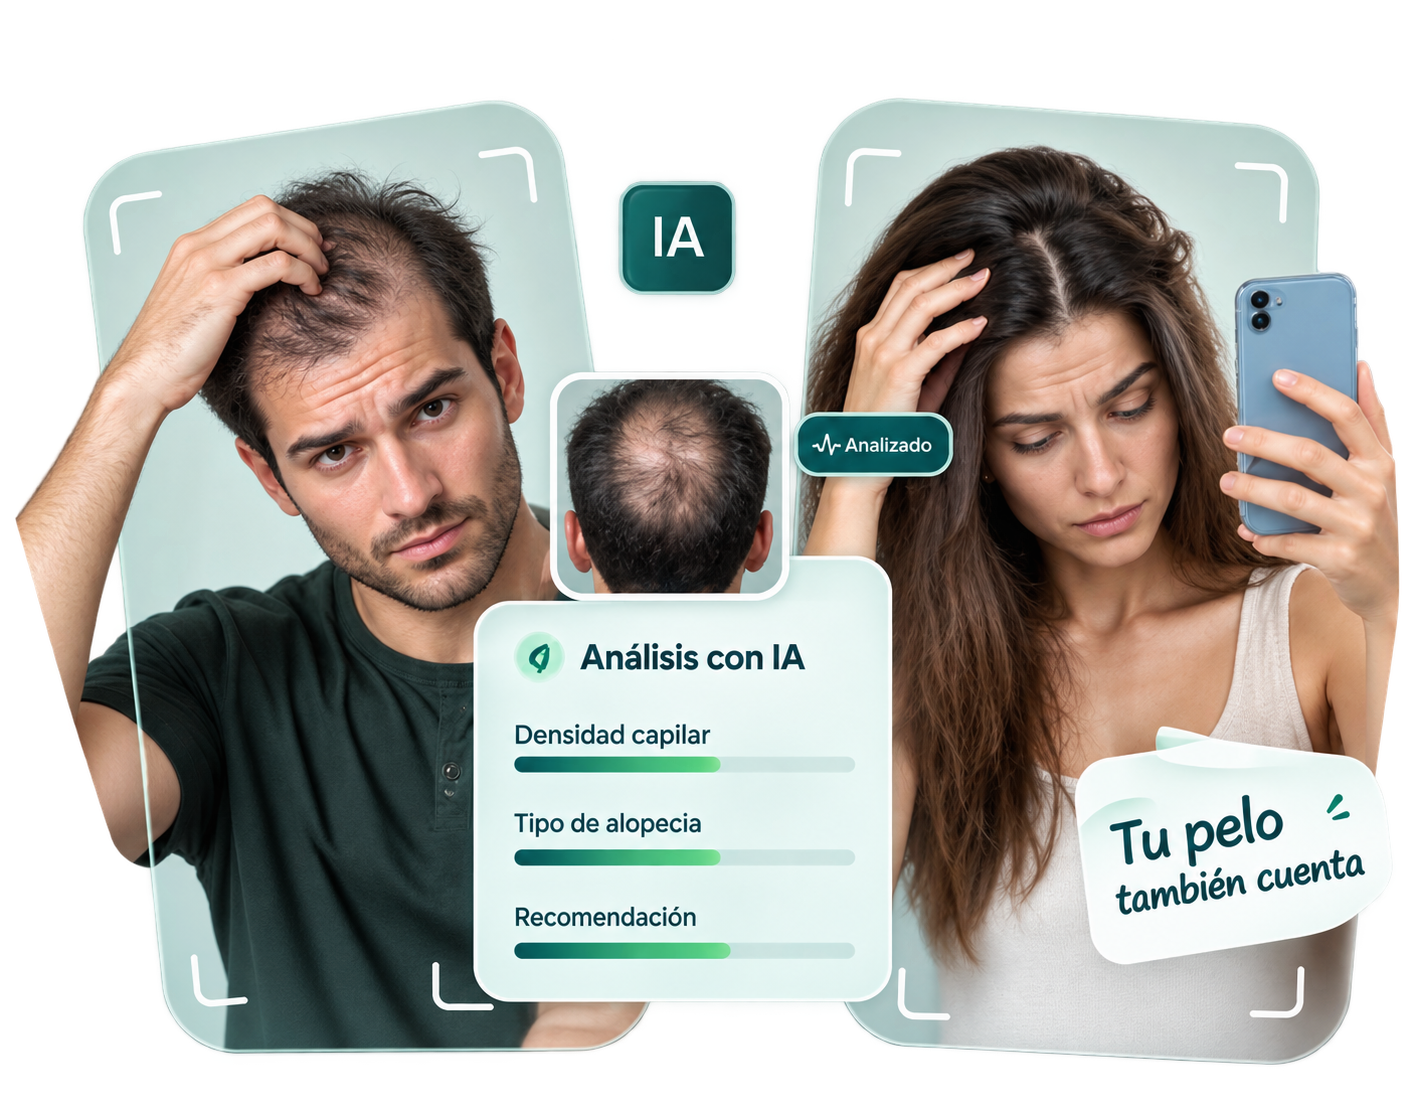
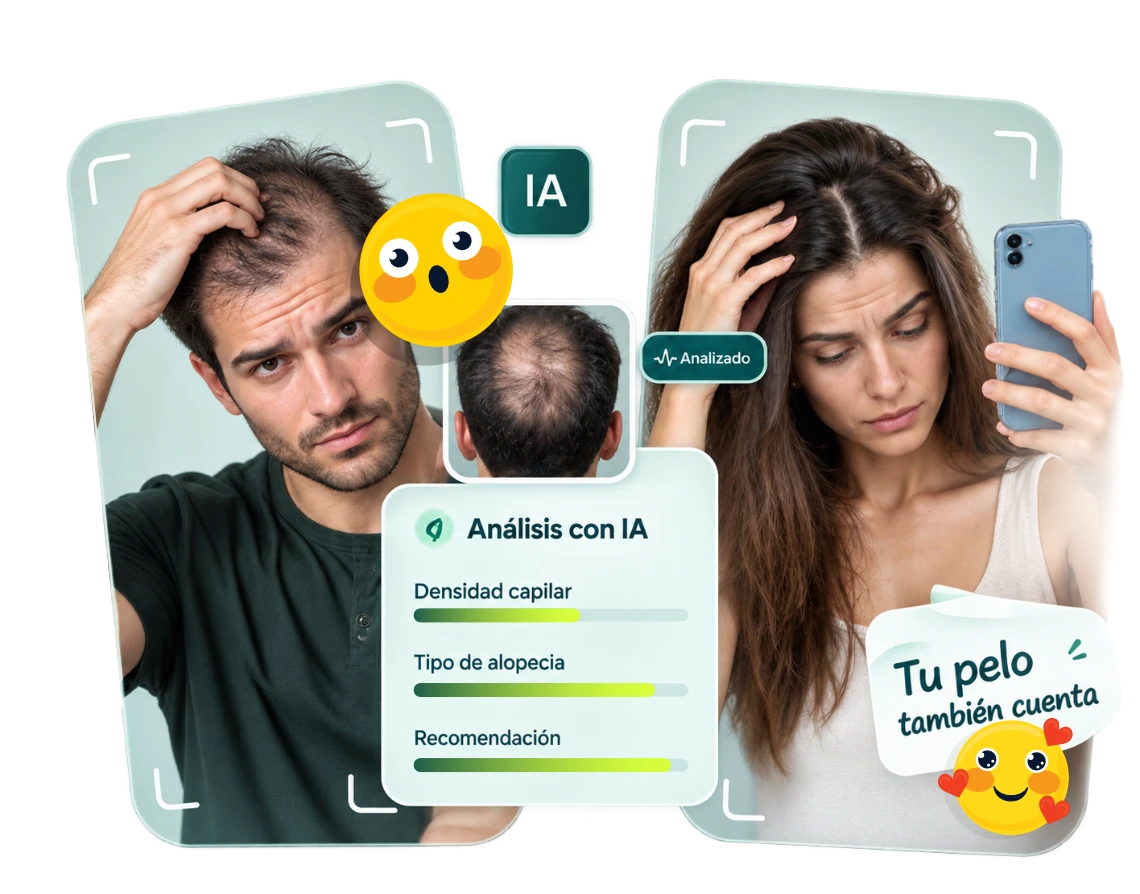
Home: fondo de página completo, foto del hero corregida y ajustes de cabecera (#34)
- Sustituye la foto y la textura de fondo del hero por las versiones
  finales de Santy (sin marca de agua, con los stickers de emoji).
- El fondo con hojas pasa a cubrir toda la home (fixed, detrás de
  todas las secciones) en vez de limitarse al hero — el hero y
  "Clínicas destacadas" ahora son cajas blancas flotando sobre ese
  fondo, como el resto de módulos irán a partir de ahora.
- "Hair we go!" junto al logo pasa de Birthstone (script) a Bricolage
  Grotesque, y se retira la dependencia de Birthstone al quedar sin uso.
- Se añaden las variantes del logo en verde sólido y blanco sólido
  para negativizar en fondos oscuros, listas para cuando hagan falta.

Claude-Session: https://claude.ai/code/session_01LDJe486sczaNLbqym9Vq58

diff --git a/src/components/home/hero.tsx b/src/components/home/hero.tsx
@@ -10,16 +10,8 @@ const BADGES = [
 
 export function Hero() {
   return (
-    <section className="relative overflow-hidden bg-gradient-to-b from-sage/25 via-sage/10 to-white">
-      <Image
-        src="/brand/textura-hojas.png"
-        alt=""
-        fill
-        priority
-        sizes="100vw"
-        className="pointer-events-none object-cover opacity-70"
-      />
-      <div className="relative mx-auto grid max-w-[1600px] items-center gap-10 px-6 py-12 lg:grid-cols-[0.85fr_1.15fr] lg:gap-6 lg:py-16">
+    <section className="mx-auto max-w-[1600px] px-6 pt-6 sm:pt-8">
+      <div className="grid items-center gap-10 rounded-3xl bg-white p-6 shadow-sm sm:p-10 lg:grid-cols-[0.85fr_1.15fr] lg:gap-6">
         <div className="text-left">
           <p className="text-xs font-bold uppercase tracking-widest text-teal">
             Tu pelo en buenas manos
@@ -55,7 +47,7 @@ export function Hero() {
           </div>
         </div>
 
-        <div className="relative mx-auto aspect-[1416/1111] w-full max-w-2xl">
+        <div className="relative mx-auto aspect-[1140/894] w-full max-w-2xl">
           <Image
             src="/brand/hero-analisis-ia.png"
             alt="Análisis capilar con IA a partir de una foto"

diff --git a/src/app/page.tsx b/src/app/page.tsx
@@ -66,7 +66,7 @@ export default async function HomePage() {
   ).filter((t): t is NonNullable<typeof t> => Boolean(t));
 
   return (
-    <main className="flex-1">
+    <main className="relative flex-1 bg-[url('/brand/textura-hojas.png')] bg-cover bg-fixed bg-top">
       <AnnouncementBar />
       <SiteHeader />
       <Hero />
@@ -95,8 +95,8 @@ export default async function HomePage() {
 
       {/* Clínicas destacadas */}
       {destacadas.length > 0 && (
-        <section className="border-t border-line">
-          <div className="mx-auto max-w-[1600px] px-6 py-16">
+        <section className="mx-auto max-w-[1600px] px-6 py-8 sm:py-10">
+          <div className="rounded-3xl bg-white p-6 shadow-sm sm:p-10">
             <h2 className="font-display text-4xl font-extrabold text-teal-dark">
               Clínicas destacadas
             </h2>

diff --git a/src/components/site-header.tsx b/src/components/site-header.tsx
@@ -41,7 +41,7 @@ export async function SiteHeader() {
             priority
           />
           <span className="hidden h-6 w-px bg-line sm:block" aria-hidden />
-          <span className="hidden font-script text-2xl text-teal-dark sm:block">
+          <span className="hidden font-display text-sm font-semibold text-teal-dark sm:block">
             Hair we go!
           </span>
         </Link>

diff --git a/src/app/layout.tsx b/src/app/layout.tsx
@@ -5,7 +5,6 @@ import "@fontsource/geist/600.css";
 import "@fontsource/bricolage-grotesque/600.css";
 import "@fontsource/bricolage-grotesque/700.css";
 import "@fontsource/bricolage-grotesque/800.css";
-import "@fontsource/birthstone/400.css";
 import "./globals.css";
 
 const siteUrl = process.env.NEXT_PUBLIC_SITE_URL || "https://growwly-theta.vercel.app";

diff --git a/src/app/globals.css b/src/app/globals.css
@@ -75,7 +75,6 @@
     "Segoe UI", sans-serif;
   --font-sans: "Geist", -apple-system, BlinkMacSystemFont, "Segoe UI",
     sans-serif;
-  --font-script: "Birthstone", cursive;
 }
 
 body {
